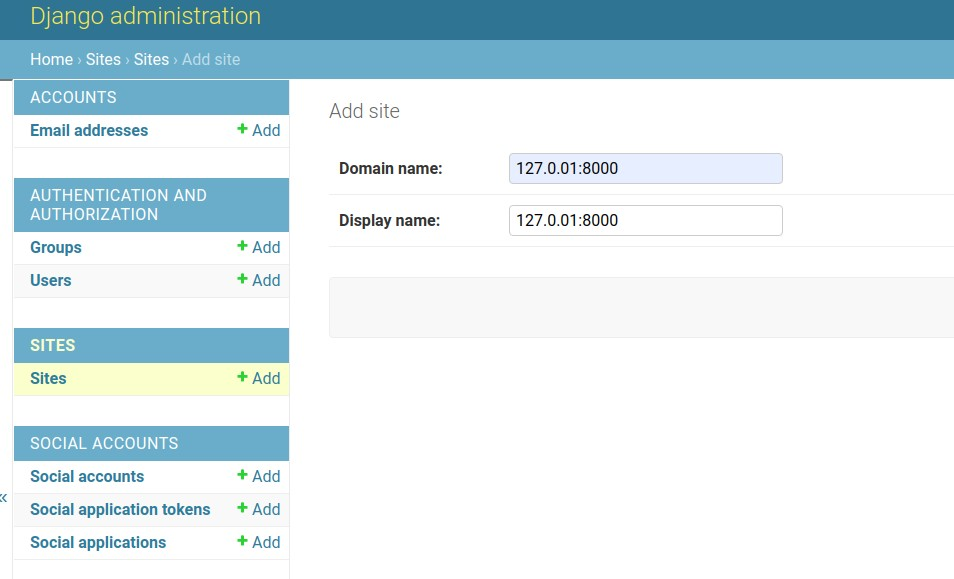
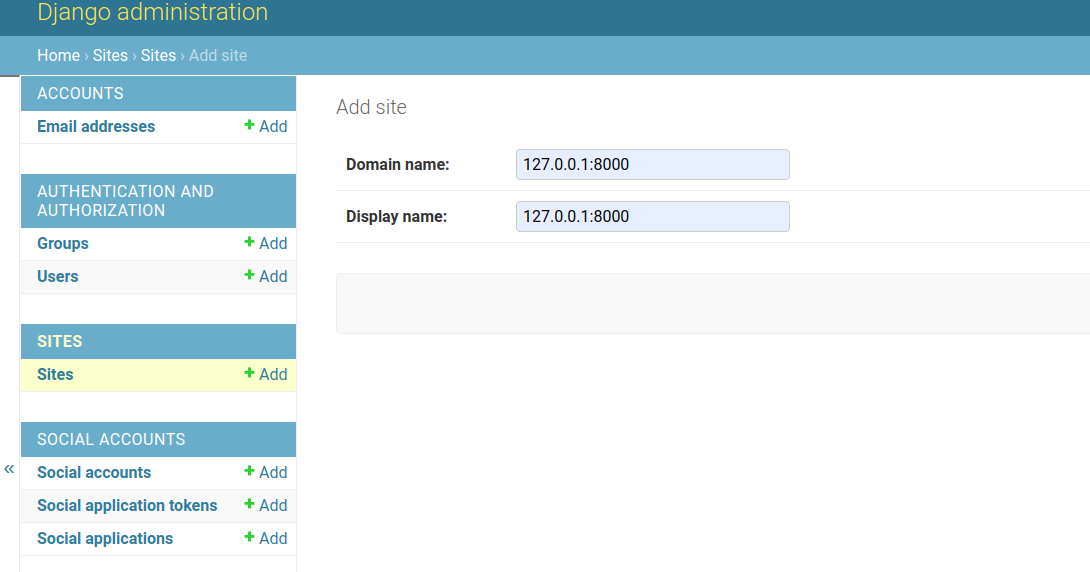
add a missing explanation

diff --git a/articles/django-google-oauth/index.md b/articles/django-google-oauth/index.md
@@ -1,8 +1,8 @@
-## User registration in Django using Google OAuth
+# User registration in Django using Google OAuth
 
 Open Authorization (OAuth) is a service that allows websites or apps to share user information with other websites without being given a user's password. Users can log in to multiple websites with the same account without creating other credentials. Some of the most popular OAuth service providers are Google, Facebook and GitHub. In this tutorial, we look at registering users in a Django app using Google OAuth.
 
-### Prerequisites
+## Prerequisites
 To follow along with this tutorial, you need [Python3](https://www.python.org/downloads/) installed on your machine.
 
 ### Step 1 -- Create and set up a new Django project
@@ -18,25 +18,27 @@ Then, install the latest version of Django from PyPI by running the following co
 ```bash
 $ pip install django
 ```
-> Django 3.1.3 was used in this tutorial.
 
 Then, create a new Django project using the command:
 ```bash
-$ django-admin startproject djangooauth .
+$ django-admin startproject oauth_project .
 ```
 Then, create a Django app using the command:
 ```bash
-$ django-admin startapp googleoauth
+$ python manage.py startapp oauth_app
 ```
-Register the `googleoauth` app to the `djangooauth` project by adding it to `INSTALLED_APPS` in `settings.py`.
+Then, apply the database migrations using the `migrate` command:
+```bash
+$ python manage.py migrate
+```
+Register the `oauth_app` to the `oauth_project` project by adding it to `INSTALLED_APPS` in `settings.py`.
 
 *djangooauth/settings.py*
 ```python
 INSTALLED_APPS = [
- #...
- 'django.contrib.staticfiles',
- 'django.contrib.sites',
- 'googleoauth',
+    #...
+    'django.contrib.sites',
+    'oauth_app',
 ]
 ```
 
@@ -50,23 +52,22 @@ Then register `django-allauth` by adding it to `INSTALLED_APPS` in `settings.py`
 *djangooauth/settings.py*
 ```python
 INSTALLED_APPS = [
- #...
- 'googleoauth',
- 'allauth',
- 'allauth.account',
- 'allauth.socialaccount',
- 'allauth.socialaccount.providers.google',
+    #...
+    'allauth',
+    'allauth.account',
+    'allauth.socialaccount',
+    'allauth.socialaccount.providers.google',
 ]
 ```
 The line `allauth.socialaccount.providers.google` specifies the OAuth provider since `django-allauth` supports [many OAuth providers](https://django-allauth.readthedocs.io/en/latest/providers.html).
 
-We will also set `django-allauth` as the authentication backend for our application in the `AUTHENTICATION_BACKEND` configurations.
+We will also set `django-allauth` as the authentication backend for our application in the `AUTHENTICATION_BACKEND` configurations. At the bottom of `settings.py`, add the following code:
 
 *djangooauth/settings.py*
 ```python
 AUTHENTICATION_BACKENDS = [
- 'django.contrib.auth.backends.ModelBackend',
- 'allauth.account.auth_backends.AuthenticationBackend'
+    'django.contrib.auth.backends.ModelBackend',
+    'allauth.account.auth_backends.AuthenticationBackend'
 ]
 ```
 Then set Google as the OAuth provider under `SOCIALACCOUNT_PROVIDERS` configurations.
@@ -74,13 +75,13 @@ Then set Google as the OAuth provider under `SOCIALACCOUNT_PROVIDERS` configurat
 *djangooauth/settings.py*
 ```python
 SOCIALACCOUNT_PROVIDERS = {
- 'google': {
- 'SCOPE': [
- 'profile',
- 'email',
+    'google': {
+        'SCOPE': [
+            'profile',
+            'email',
         ],
- 'AUTH_PARAMS': {
- 'access_type': 'online',
+        'AUTH_PARAMS': {
+            'access_type': 'online',
         }
     }
 }
@@ -129,10 +130,11 @@ Then, register this `templates` folder in the `TEMPLATES` configurations in `set
 ```python
 TEMPLATES = [
     {
- 'BACKEND': 'django.template.backends.django.DjangoTemplates',
- 'DIRS': [BASE_DIR / 'templates'],
- 'APP_DIRS': True,
- #...
+        'BACKEND': 'django.template.backends.django.DjangoTemplates',
+        'DIRS': [BASE_DIR / 'templates'],
+        'APP_DIRS': True,
+        #...
+    }
 ]
 ```
 
@@ -147,7 +149,7 @@ from django.views.generic import TemplateView
 from django.contrib.auth.views import LogoutView
 
 urlpatterns = [
- #...
+    #...
     path('', TemplateView.as_view(template_name="index.html")),
     path('accounts/', include('allauth.urls')),
     path('logout', LogoutView.as_view()),
@@ -198,12 +200,15 @@ Then, under `Social Applications` click `Add` and fill in the details as follows
 
 Since you are currently logged in as a superuser, logout and login again using your Google account.
 
+If you get an error: `SocialApp matching query does not exist` at http://127.0.0.1:8000/accounts/google/login/, it means that the id of the site you created in Django admin is not the same as the one in `settings.py`. Consider playing around with the `SITE_ID` value. For example `SITE_ID = 3`, etc.
+
+For more information look at [Django "sites" framework docs](https://docs.djangoproject.com/en/3.1/ref/contrib/sites/).
+
 ![](sign-in-with-google.jpg)
 
-After signing with Google, you can check the user information obtained from Google at http://127.0.0.1:8000/admin/socialaccount/socialaccount/. 
+After signing in with Google, you can check the user information obtained from Google at http://127.0.0.1:8000/admin/socialaccount/socialaccount/. 
 
 Google provides little information about its users. To get more user information from Google, [your app needs to be verified](https://developers.google.com/apps-script/guides/client-verification).
 
 ### Conclusion
-You can integrate Google OAuth into your Django with Django OAuth packages like `django-allauth`. You can also integrate other OAuth services similarly using `django-allauth`. 
-
+You can integrate Google OAuth into your Django with Django OAuth packages like `django-allauth`. You can also integrate other OAuth services similarly using `django-allauth`.
